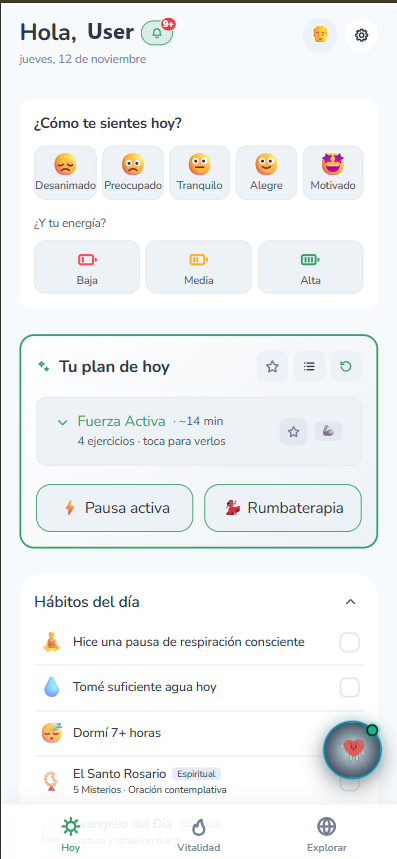
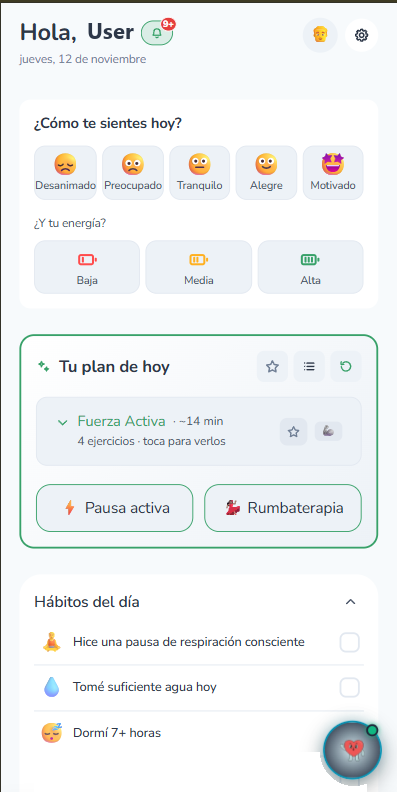
FamilyGym: recorte de los hábitos personales en la captura de Hoy

diff --git a/proyectos/familygym/README.md b/proyectos/familygym/README.md
@@ -10,7 +10,7 @@ Aplicación de **bienestar familiar y gamificación**, pensada para fomentar el 
   <img src="img/explorar.png" width="260" alt="Pantalla Explorar">
 </p>
 
-*Hoy, Vitalidad y Explorar. Capturas de la aplicación, con el nombre del usuario sustituido por «User».*
+*Hoy, Vitalidad y Explorar. Capturas de la aplicación, con el nombre del usuario sustituido por «User» y la lista de hábitos recortada.*
 
 ## Qué ofrece
 
